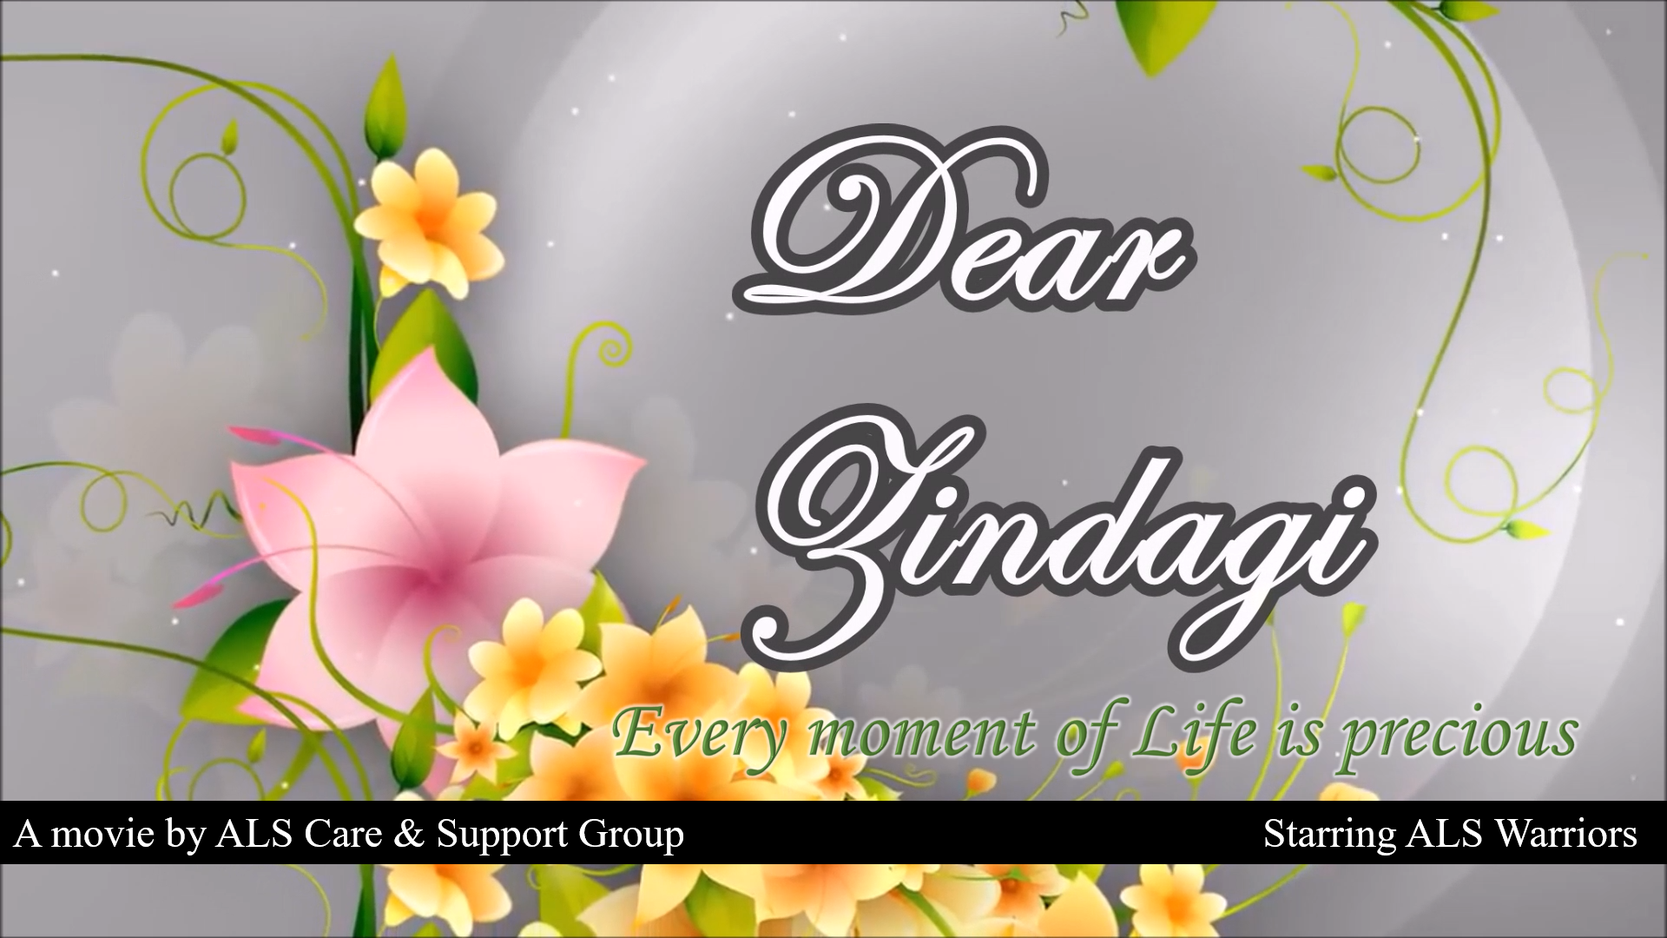
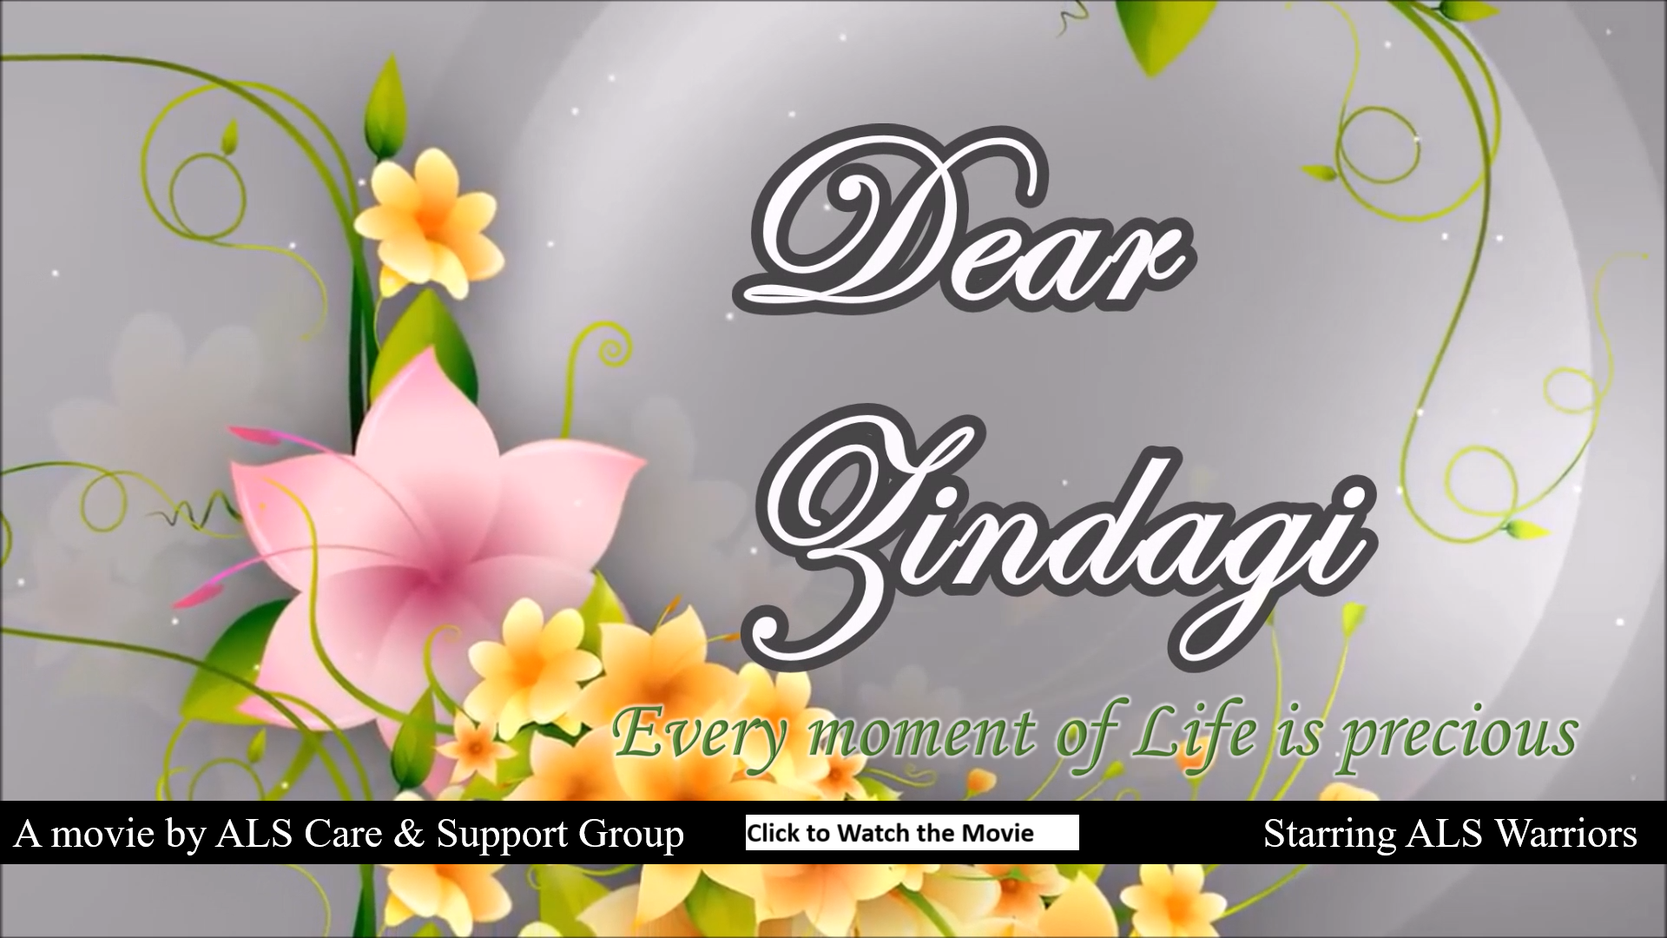
update sliding pics, our moms video

Changed region(s): [[0.4375, 0.8556, 0.6562, 0.9167]]

diff --git a/index.html b/index.html
@@ -49,7 +49,7 @@
       <path d="M5.026 15c6.038 0 9.341-5.003 9.341-9.334 0-.14 0-.282-.006-.422A6.685 6.685 0 0 0 16 3.542a6.658 6.658 0 0 1-1.889.518 3.301 3.301 0 0 0 1.447-1.817 6.533 6.533 0 0 1-2.087.793A3.286 3.286 0 0 0 7.875 6.03a9.325 9.325 0 0 1-6.767-3.429 3.289 3.289 0 0 0 1.018 4.382A3.323 3.323 0 0 1 .64 6.575v.045a3.288 3.288 0 0 0 2.632 3.218 3.203 3.203 0 0 1-.865.115 3.23 3.23 0 0 1-.614-.057 3.283 3.283 0 0 0 3.067 2.277A6.588 6.588 0 0 1 .78 13.58a6.32 6.32 0 0 1-.78-.045A9.344 9.344 0 0 0 5.026 15z"/>
     </symbol>
   </svg>
-    
+
     <!-- bootstrap navbar -->
     <nav class="navbar  sticky-top navbar-expand-lg bg-body-tertiary ">
         <div class="container-fluid">
@@ -63,6 +63,7 @@
             <!-- <span class="navbar-toggler-icon"></span> -->
           </button>
           
+
           <div class="collapse navbar-collapse" id="navbarSupportedContent">
             <ul class="navbar-nav me-auto mb-2 mb-lg-0">
               <li class="nav-item">
@@ -165,13 +166,14 @@
           
         </div>
         
+        
       </nav>
       <style>
         .carousel-inner img {
-            aspect-ratio: 16/6.7; /* Set the aspect ratio to 16:9 */
-             object-fit: cover; /*Ensure the image covers the entire area */
+            aspect-ratio: 16/6.7; 
+             object-fit: cover; 
         }
-    </style>
+      </style>
 
 
       <div id="carouselExampleCaptions" class="carousel slide" data-bs-ride="carousel">
@@ -184,7 +186,7 @@
         </div>
         <div class="carousel-inner">
           <div class="carousel-item active" data-bs-interval="2000">
-            <a href="media\image_gallery.html"><img src="images\collage.png" class="d-block w-100" class="img-fluid"  alt="..."></a>
+            <a href="media\image_gallery.html"><img style="object-fit: fill;" src="images\collage.png" class="d-block w-100" class="img-fluid"  alt="..."></a>
             
             <div class="carousel-caption d-none d-md-block bg-black ">
               <h2 style="color: rgb(255, 249, 249);">ALS care and support Family</h2>
@@ -195,7 +197,7 @@
             </div>
           </div>
           <div class="carousel-item " data-bs-interval="3000">
-            <a href="media\neurorehab_award.html"><img src="images\Award.jpg"   class="d-block w-100" class="img-fluid" alt="..."></a>
+            <a href="media\neurorehab_award.html"><img src="images\Awardcrop.jpg"   class="d-block w-100" class="img-fluid" alt="..."></a>
             
             <div class="carousel-caption d-none d-md-block bg-black">
               <h5>ALSCAS recieve NeuroRehab Initiative of the year 2023 Award.</h5>
@@ -205,22 +207,22 @@
           
           <div class="carousel-item" data-bs-interval="3000">
             <a href="media\als_warrior_stories.html"><img src="images\Pradhan's Family.jpeg" class="d-block w-100" class="img-fluid" alt="..."></a>
-            <div class="carousel-caption d-none d-md-block bg-black">
+            <div class="carousel-caption d-none d-sm-block bg-black">
               <h4 style="background-color: black;">ALS Warrior: Dr.Janmejay Pradhan, DRDO Scientist</h4>
               <p> Click to Read the Full story of ALS Warrior</p>
               
             </div>
           </div>
           <div class="carousel-item" data-bs-interval="3000">
-            <a href="media\als_warrior_stories.html"><img src="images\Dear Zindagi crop.png" class="d-block w-100" class="img-fluid" alt="..."></a>
-            <!-- <div class="carousel-caption d-none d-md-block bg-black">
-              <h4 style="background-color: black;">ALS Warrior: Dr.Janmejay Pradhan, DRDO Scientist</h4>
-              <p> Click to Read the Full story of ALS Warrior</p>
+            <a href="https://youtu.be/IAIu82NkMNM"><img style="object-fit: contain;" src="images\Limca-certi.jpg" class="d-block w-100" class="img-fluid" alt="..."></a>
+            <div class="carousel-caption d-none d-md-block bg-black">
+              <h4 style="background-color: black;">Limca Book of Records Certificate 2016, received on 30th March 2022.</h4>
+              <p> Click to Read the Full story</p>
               
-            </div> -->
+            </div>
           </div>
           <div class="carousel-item" data-bs-interval="2000">
-            <a href="media\als_warrior_stories.html" ><img src="images\Dear Zindagi crop.png" class="d-block w-100" class="img-fluid" alt="..."></a>
+            <a href="https://youtu.be/IAIu82NkMNM" ><img style="object-fit: fill;" src="images\Dear Zindagi.png" class="d-block w-100" class="img-fluid" alt="..."></a>
             <!-- <div class="carousel-caption d-none d-md-block bg-black">
               <h4 style="background-color: black;">ALS Warrior: Dr.Janmejay Pradhan, DRDO Scientist</h4>
               <p> Click to Read the Full story of ALS Warrior</p>
@@ -244,18 +246,19 @@
         Check out our New NewsLetter!!!
         <a href="media\newsletters.html" class="btn btn-primary">Explore</a></marquee>     
       </div>
-      <!-- herosection -->
-      <div class="container col-xxl-8 px-4 py-5">
+      <!-- ALS vision and mission section -->
+      <div class="container col-xxl-8 px-4 py-3">
         <div class="row flex-lg-row-reverse align-items-center g-5 py-5 justify-content-center">
           <div class="col-10 col-sm-8 col-lg-6">
             <a href="images\als-care-support-group_orig_demo.png" target="_blank"><img src="images\als-care-support-group_orig_demo.png" class="d-block mx-lg-auto img-fluid" alt="ALSCAS Journey" width="700" height="500" loading="eager"></a>
           </div>
+          <!-- style="font-family: 'Berkshire Swash', cursive;" -->
           <div class="col-lg-6">
             <h1 class="display-5 fw-bold text-body-emphasis lh-1 mb-3">ALS Care & Support Foundation</h1>
             <p class="fw-bold"><strong><h2 style="text-decoration:underline;">Our Vision-</h2></strong></br>
-              <h4 style="font-family: 'Berkshire Swash', cursive;">Care, Compassion, and Cure for ALS</h4>
+              <h4>Care, Compassion, and Cure for ALS</h4>
             <h2 class="fw-bold" style="text-decoration:underline;">Our Mission-</h2></strong><br>
-              <h5 style="font-family: 'Berkshire Swash', cursive;">To build a compassionate ALS Care and Support family; provide comprehensive knowledge and guidance for effective ALS life management; empower persons with ALS to live with dignity, create awareness and advocate for affordable treatment, research and cure.</h5></p><br>
+              <h5>To build a compassionate ALS Care and Support family; provide comprehensive knowledge and guidance for effective ALS life management; empower persons with ALS to live with dignity, create awareness and advocate for affordable treatment, research and cure.</h5></p><br>
             <div class="d-grid gap-2 d-md-flex justify-content-md-start">
               <a href="aboutus\founders_desk.html" type="button" class="btn btn-primary btn-lg px-4 me-md-2">About Us</a>
               <a href="#joingroup" type="button" class="btn btn-outline-secondary btn-lg px-4">Join Us</a>
@@ -263,81 +266,127 @@
           </div>
         </div>
       </div>
+      <!-- our background -->
+      <div id="our-background" class="px-4 py-5 my-5  bg-dark-subtle rounded-3 container">
+        <h1 class="display-5 fw-bold  text-center text-body-emphasis">Our Background</h1>
+        <div class="col-lg-6 mx-auto my-3">
+          <p class=" mb-4">ALS Care and Support India is purely a family of caregivers and patients which provide critical knowledge and support to fellow ALS community in India. Set-up in 2015, it is a 24 x 7 assistance community, which has touched the lives of 650+ patients and their caregivers.  Functioning more as a close family, it guides fellow PALS/CALS  with each and every aspect of the disease based on their own experiences and extensive research. Be it nutrition, PEG management, using BiPAP, home ICU management, creating awareness, advocacy and much more. All this with full empathy and compassion and without a penny of charge.</p>
+          <!-- <div class="d-grid gap-2 d-sm-flex justify-content-sm-center">
+            <button type="button" class="btn btn-primary btn-lg px-4 gap-3">Primary button</button>
+            
+          </div> -->
+        </div>
+      </div>
+      <!-- acheviemnet -->
+      <!-- <div class="container py-4 py-lg-6  ">
+        <h3>Acheviements</h3>
+        <div class="row">
+            <div class="col-lg-4">
+                <div class="card shadow-lg p-3">
+                    <img class="card-img-top" src="https://images.unsplash.com/photo-1529653762956-b0a27278529c?ixlib=rb-1.2.1&amp;q=80&amp;fm=jpg&amp;crop=entropy&amp;cs=tinysrgb&amp;w=1080&amp;h=768&amp;fit=crop&amp;ixid=eyJhcHBfaWQiOjM3ODR9" alt="Photo by CoinView App" loading="lazy">
+
+                    <div class="card-body">
+                        <div class="lc-block text-center mb-3">
+                            <div editable="rich">
+
+                                <h3>Card Title</h3>
+                            </div>
+                        </div>
+                        <div class="lc-block text-center"><a class="btn btn-link" href="#" role="button">Click me, I'm a button</a></div>
+                    </div>
+                </div>
+            </div>
+            <div class="col-lg-4">
+                <div class="card shadow-lg p-3">
+
+                    <img class="card-img-top" src="https://images.unsplash.com/photo-1495549115977-ca0a18c9f6a4?ixlib=rb-1.2.1&amp;q=80&amp;fm=jpg&amp;crop=entropy&amp;cs=tinysrgb&amp;w=1080&amp;h=768&amp;fit=crop&amp;ixid=eyJhcHBfaWQiOjM3ODR9" alt="Photo by Omar Prestwich" loading="lazy">
+
+                    <div class="card-body">
+                        <div class="lc-block text-center mb-3">
+                            <div editable="rich">
+
+                                <h3>Card Title</h3>
+                            </div>
+                        </div>
+                        <div class="lc-block text-center"><a class="btn btn-link" href="#" role="button">Click me, I'm a button</a></div>
+                    </div>
+                </div>
+            </div>
+            <div class="col-lg-4">
+                <div class="card shadow-lg p-3">
+
+                    <img class="card-img-top" src="https://images.unsplash.com/photo-1494366222322-387658a1a976?ixlib=rb-1.2.1&amp;q=80&amp;fm=jpg&amp;crop=entropy&amp;cs=tinysrgb&amp;w=1080&amp;h=768&amp;fit=crop&amp;ixid=eyJhcHBfaWQiOjM3ODR9" alt="Photo by NeONBRAND" loading="lazy">
+
+                    <div class="card-body">
+                        <div class="lc-block text-center mb-3">
+                            <div editable="rich">
+
+                                <h3>Card Title</h3>
+                            </div>
+                        </div>
+                        <div class="lc-block text-center"><a class="btn btn-link" href="#" role="button">Click me, I'm a button</a></div>
+                    </div>
+                </div>
+            </div>
+        </div>
+    </div> -->
       <!-- Our mom Story -->
       
-      <div class="container col-xxl-8 px-4 py-5">
+      <!-- <div class="container col-xxl-8 px-4 py-3">
         <div class="row flex-lg-row-reverse align-items-center g-5 py-5 justify-content-center">
           <div class="col-10 col-sm-8 col-lg-6" >
-            <!-- <iframe width="560" height="315" src="https://www.youtube.com/embed/-UBUaWWBE8k?si=DhKr_bmZLTP08EP-" title="YouTube video player" frameborder="0" allow="accelerometer; autoplay; clipboard-write; encrypted-media; gyroscope; picture-in-picture; web-share" referrerpolicy="strict-origin-when-cross-origin" allowfullscreen></iframe> -->
-            <img src="images\Our mom's story.jpg" class="d-block mx-lg-auto img-fluid" alt="ALSCAS Journey" width="700" height="500" loading="eager">
+  
+            <img src="images\Our mom's story.jpg" class="d-block mx-lg-auto img-fluid" alt="Our mom's story" width="700" height="500" loading="eager">
           </div>
           <div class="col-lg-6">
             <h1 class="display-5 fw-bold text-body-emphasis lh-1 mb-3">Our Mom's Story</h1>
             
               <p>Our Mom was completely active during her lifetime, manages office, home and other stuff due to her untiring attitude. Always working all time, fit & fine (with just few age related problem like pain in knees and legs). All went perfectly normal till Jan 2008 and then she started experiencing some difficulty in body one after other.  We got her checked with many doctors and at the end it came out to be this incurable disease (ALS: motor neuron disease). It was most devastating news till date where our life came to standstill.  We consulted the best doctors in India, and also world over through internet, however there was NO CAUSE or CURE for this disease till date.</p><br>
             <div class="d-grid gap-2 d-md-flex justify-content-md-start">
-              <a href="media\als_warrior_stories.html" type="button" class="btn btn-outline-success btn-lg px-4">Read Full Story</a>
+              <a href="als_warrior_stories.html" type="button" class="btn btn-outline-success btn-lg px-4">Read Full Story</a>
             </div>
           </div>
         </div>
-      </div>
-      <!-- <hr class="featurette-divider"> -->
-<!-- Analytics -->
-    <!-- <div class="container px-4 py-5 bg-danger-subtle">
-    <h2 class=" fw-bold pb-2 border-bottom">Analytics</h2>
+      </div> -->
 
-    <div class="row row-cols-1 row-cols-md-2 align-items-md-center g-5 py-5">
-      <div class="col d-flex flex-column align-items-start gap-2">
-        <h2 class="fw-bold text-body-emphasis">ALS is growing, Our community too!</h2>
-        <p class="text-body-secondary">ALS in India is growing at fast phase, with very young patients, to slow progress patients. Know more about ALS patients in India.  </p>
-        <a href="#" class="btn btn-primary btn-lg">Find out more</a>
-      </div>
+      <div class="container py-5">
+        <div class="row mb-4 align-items-center flex-lg-row-reverse">
+            <div class="col-md-6 col-xl-6 mb-4 mb-lg-0 ">
+                <!-- requires glightbox, please flag the option in the picostrap customizer panel-->
 
-      <div class="col">
-        <div class="row row-cols-1 row-cols-sm-2 g-4">
-          <div class="col d-flex flex-column gap-2">
-            <div class="feature-icon-small d-inline-flex align-items-center justify-content-center text-bg-success bg-gradient fs-4 rounded-3">
-              <!-- <svg class="bi" width="1em" height="1em">
 
-                <use xlink:href="#collection" />
-              </svg> -->
-              <!-- <p>650+</p>
-            </div>
-            <h4 class="fw-semibold mb-0 text-body-emphasis">Patients</h4>
-            <p class="text-body-secondary">650+ Patient connected Since 2015</p>
-          </div>
+                <div class="lc-block position-relative"><img class="img-fluid rounded shadow" src="images\Our mom's story.jpg" sizes="(max-width: 3840px) 100vw, 3840px" width="3840" height="" alt="Our mom story">
+                    <a class="position-absolute top-50 start-50 translate-middle glightbox d-flex justify-content-center align-items-center" href="https://youtu.be/-UBUaWWBE8k" target="_blank">
+                        <svg xmlns="http://www.w3.org/2000/svg" width="5em" height="5em" fill="currentColor" class="text-white" viewBox="0 0 16 16" lc-helper="svg-icon">
+                            <path d="M16 8A8 8 0 1 1 0 8a8 8 0 0 1 16 0zM6.79 5.093A.5.5 0 0 0 6 5.5v5a.5.5 0 0 0 .79.407l3.5-2.5a.5.5 0 0 0 0-.814l-3.5-2.5z"></path>
+                        </svg>
+                    </a>
+                </div>
+            </div><!-- /col -->
+            <div class="col-md-6 col-xl-5">
+                <div class="lc-block mb-3">
+                    <div editable="rich">
+                        <h1 class="display-5 fw-bold">Our Mom's Story</h1>
+                    </div>
+                </div><!-- /lc-block -->
+                <!-- /lc-block -->
 
-          <div class="col d-flex flex-column gap-2">
-            <div class="feature-icon-small d-inline-flex align-items-center justify-content-center text-bg-success bg-gradient fs-4 rounded-3">
-              <!-- <svg class="bi" width="1em" height="1em">
-                <use xlink:href="#gear-fill" />
-              </svg> -->
-              <!-- <p>154+</p>
-            </div>
-            <h4 class="fw-semibold mb-0 text-body-emphasis">ICU Support</h4>
-            <p class="text-body-secondary">Provided critical ICU support to 154+ members on PEG, Bipap and Ventilator</p>
-          </div>
 
-          <div class="col d-flex flex-column gap-2">
-            <div class="feature-icon-small d-inline-flex align-items-center justify-content-center text-bg-success bg-gradient fs-4 rounded-3">
-              <p>40K +</p>
-            </div>
-            <h4 class="fw-semibold mb-0 text-body-emphasis">Conversation-2023</h4>
-            <p class="text-body-secondary">Total 40k+ Whatsapp conversations about challenges/solutions amoung the community in 2023</p>
-          </div>
+                <div class="lc-block mb-4 px-2">
+                    <div editable="rich">
 
-          <div class="col d-flex flex-column gap-2">
-            <div class="feature-icon-small d-inline-flex align-items-center justify-content-center text-bg-success bg-gradient fs-4 rounded-3">
-              <p>102+</p>
-            </div>
-            <h4 class="fw-semibold mb-0 text-body-emphasis">New Patients</h4>
-            <p class="text-body-secondary">102+ new patient joined the ALS care and support group 2023</p>
-          </div>
+                      <p>Our Mom was completely active during her lifetime, manages office, home and other stuff due to her untiring attitude. Always working all time, fit & fine (with just few age related problem like pain in knees and legs). All went perfectly normal till Jan 2008 and then she started experiencing some difficulty in body one after other.  We got her checked with many doctors and at the end it came out to be this incurable disease (ALS: motor neuron disease). It was most devastating news till date where our life came to standstill.  We consulted the best doctors in India, and also world over through internet, however there was NO CAUSE or CURE for this disease till date.</p>
+
+                    </div>
+                </div>
+                <div class="lc-block">
+                    <a class="btn btn-lg btn-outline-success" href="als_warrior_stories.html" role="button">Read Full Story</a>
+                </div><!-- /lc-block -->
+            </div><!-- /col -->
         </div>
-      </div>
-    </div> -->
-  <!-- </div> --> 
-  <div class="container border border-info p-2">                      
+    </div>
+       
+  <div class="container bg-info-subtle p-2 rounded-3">                      
     <div class="row text-center justify-content-center mb-5">
         <div class="col-xl-6 col-lg-8">
             <h2 class="font-weight-bold">Analytics</h2>
@@ -463,35 +512,7 @@
         </div>
       </div>
       
-      <!-- testimonial -->
-    <!-- <div class="container marketing">
-      <div class="row">
-        <div class="col-lg-4">
-          <img class="rounded .img-fluid" src="images\newsletter.png" alt="newsletter" style="height: 18em; width: 18em; margin-left: 35px; margin-bottom: 10px;">
-          <h2 class="fw-normal">Newsletters</h2>
-          <p>Explore our latest newsletters on ALS, featuring insightful updates, research highlights, and inspiring stories. Click below to delve into our archive and stay informed!</p></br>
-          <p><a class="btn btn-primary" href="#">View details &raquo;</a></p></br>
-        </div>
-        <div class="col-lg-4">
-          <img class="rounded .img-fluid" src="images\Assistive Devices.png" alt="newsletter" style="height: 18em; width: 18em; margin-left: 35px; margin-bottom: 10px;">
-          <h2 class="fw-normal">Assistive Devices</h2>
-          <p>Assistive devices for ALS support independence by compensating for motor impairments. They include communication aids, mobility devices, and specialized interfaces, crucial for daily living as the disease progresses.</p></br>
-          <p><a class="btn btn-primary" href="#">View details &raquo;</a></p></br>
-        </div>
-        <div class="col-lg-4">
-          <img class="rounded .img-fluid" src="images\testimonial.png" alt="newsletter" style="height: 18em; width: 18em; margin-left: 35px; margin-bottom: 10px;">
-          <h2 class="fw-normal">Testimonials</h2>
-          <p>Patient and Caregiver sharing there experience with the ALS care and support.</p><br>
-          <p><a class="btn btn-primary" href="#">View details &raquo;</a></p>
-        </div>
-      </div>
-    </div> -->
       
-    <!-- <section style="
-      display: grid;
-      place-items: center;
-      height: 60vh;
-    "> -->
       <div class="container" style="background-color: #c0efdd; border-radius: 8px;">
           <div>
             <h1 class="section-header" style="padding-top: 10px; padding-left: 10px;">Blessings <a href="#" class="btn btn-outline-primary">
@@ -646,27 +667,26 @@
       </div>
     </div>
     <!-- Join Group -->
-    <div class="container my-5 " id="joingroup">
-      <div class="p-5 text-center bg-body-tertiary rounded-3">
+    <div class="container my-2 " id="joingroup">
+      <div class="p-4 text-center bg-body-tertiary rounded-3">
         <!-- <svg class="bi mt-4 mb-3" style="color: var(--bs-indigo);" width="100" height="100"><use xlink:href="#bootstrap"/></svg> -->
         <i class="bi bi-whatsapp" style="font-size: 3em; color: #09cb84;"></i>
         <h1 class="text-body-emphasis">Join Our Whats App Group</h1><br> 
         <p class="col-lg-8 mx-auto fs-5 text-muted">
-          If you wish to be part of our 'ALS care & support whatsapp group'  started in 2015, (where CALS across India support each other for any day to day challenges during progression of this disease)., then please share few details by clicking the button below, fill the Form to join. 
+          If you wish to be part of our 'ALS care & support whatsapp group'  started in 2015, (where CALS across India support each other for any day to day challenges during progression of this disease), then please share few details by clicking the button below, fill the Form to join. 
         </p><br>
         <div class="d-inline-flex gap-2 mb-5">
           <button class="d-inline-flex align-items-center btn btn-success btn-lg px-4 rounded-pill" type="button">
             Join Us
             
           </button>
-          
         </div>
       </div>
     </div>
 
       <!-- footer -->
       
-      <div class="container bg-info-subtle mt-4">
+      <div class="container bg-info-subtle mt-2 rounded-3 px-3">
         <footer class="py-5">
           <div class="row">
             <div class="col-6 col-md-2 mb-3">

diff --git a/als_warrior_stories.html b/als_warrior_stories.html
@@ -8,7 +8,7 @@
     <!-- bootstrap CDN -->
     <link href="https://cdn.jsdelivr.net/npm/bootstrap@5.3.2/dist/css/bootstrap.min.css" rel="stylesheet" integrity="sha384-T3c6CoIi6uLrA9TneNEoa7RxnatzjcDSCmG1MXxSR1GAsXEV/Dwwykc2MPK8M2HN" crossorigin="anonymous">
     <link rel="stylesheet" href="https://cdnjs.cloudflare.com/ajax/libs/font-awesome/6.5.1/css/all.min.css" integrity="sha512-DTOQO9RWCH3ppGqcWaEA1BIZOC6xxalwEsw9c2QQeAIftl+Vegovlnee1c9QX4TctnWMn13TZye+giMm8e2LwA==" crossorigin="anonymous" referrerpolicy="no-referrer" />
-    <link rel="stylesheet" href="styles_media.css">
+    <link rel="stylesheet" href="styles.css">
     <link rel="stylesheet" href="https://cdn.jsdelivr.net/npm/bootstrap-icons@1.11.3/font/bootstrap-icons.min.css">
 
     <title>ALS Care and Support - Home</title>
@@ -53,7 +53,7 @@
     <!-- bootstrap navbar -->
     <nav class="navbar  sticky-top navbar-expand-lg bg-body-tertiary ">
         <div class="container-fluid">
-          <a class="navbar-brand " href="#" ><img src="alscns-logo.png" alt="Logo"></a>
+          <a class="navbar-brand " href="index.html" ><img src="alscns-logo.png" alt="Logo"></a>
           <div class="d-lg-none" style="font-size:x-small;"><b>ALS Care & Support Foundation, India</b>
             <p>Caring & Supporting ALS India Community</p>
             <p> since 2015</p>

diff --git a/styles.css b/styles.css
@@ -123,6 +123,11 @@ body {
     padding: 20px;
 }
 
+
+.dropdown-menu a:hover{
+    background-color: #4a8ffd;
+}
+
 /* Responsive Styles */
 @media only screen and (max-width: 768px) {
     nav {
